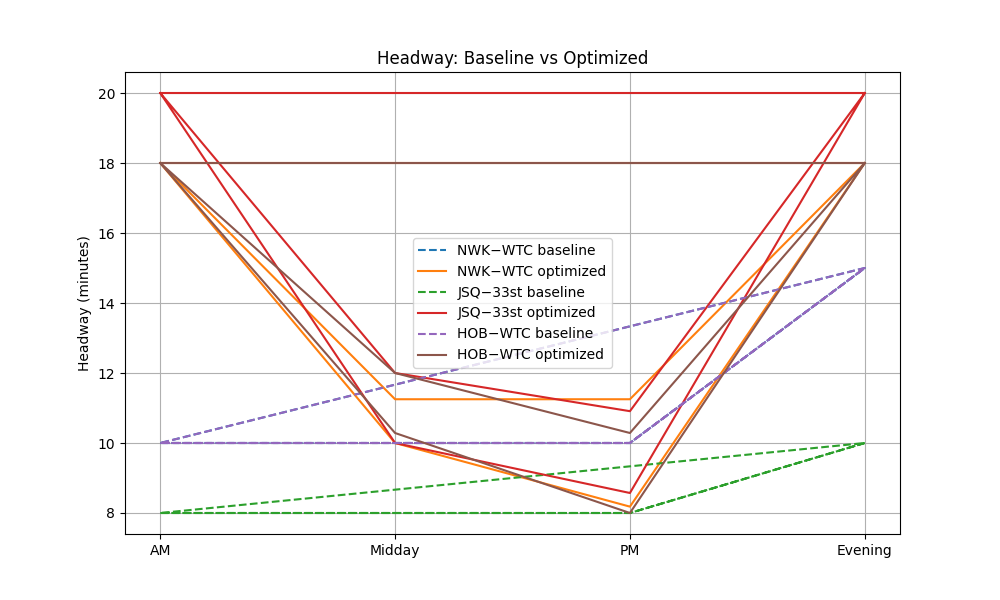
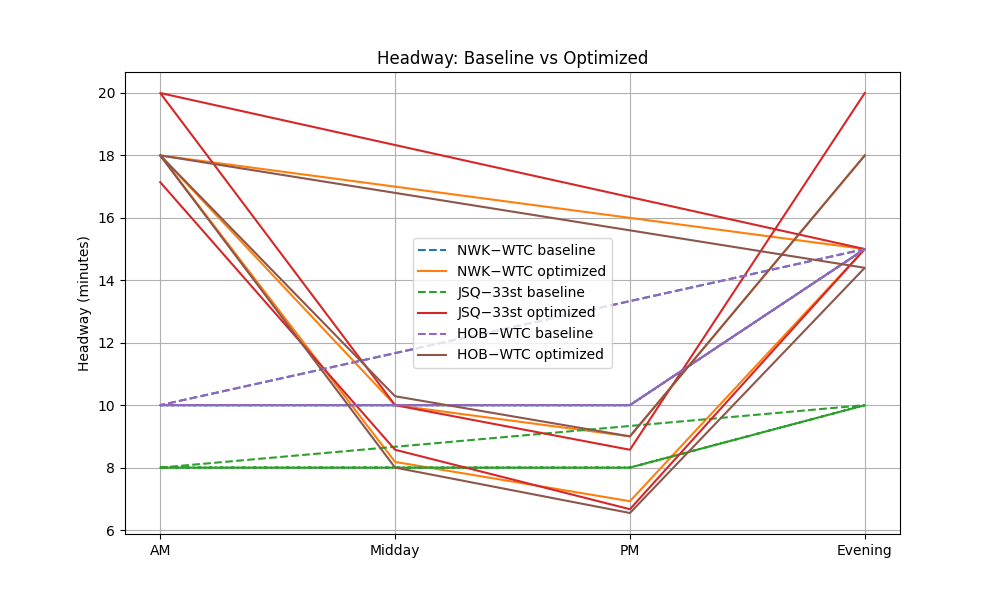
updated constraint for utilization, max is 80%

diff --git a/path_schedule_optimization.py b/path_schedule_optimization.py
@@ -274,6 +274,13 @@ def build_and_solve(period_demands, day_name="Saturday", pwl_points=8, verbose=T
             m.addConstr(E[L, t] >= seats_ph_expr - demand_ph, name=f"empty_def_{L}_{t}")
             m.addConstr(E[L, t] >= 0, name=f"empty_nonneg_{L}_{t}")
 
+            # UTILIZATION CAP: demand_per_hour ≤ 80% of seats_per_hour
+            m.addConstr(
+                demand_ph <= 0.80 * seats_ph_expr,
+                name=f"util_cap_{L}_{t}"
+            )
+
+
             # PWL: W = 1/f => W(f) = 1/f. Use breakpoints between f_lo and f_hi
             # create breakpoints (avoid f very close to zero, bounded by f_lo/f_hi)
             xs = np.linspace(f_lo, f_hi, pwl_points)
